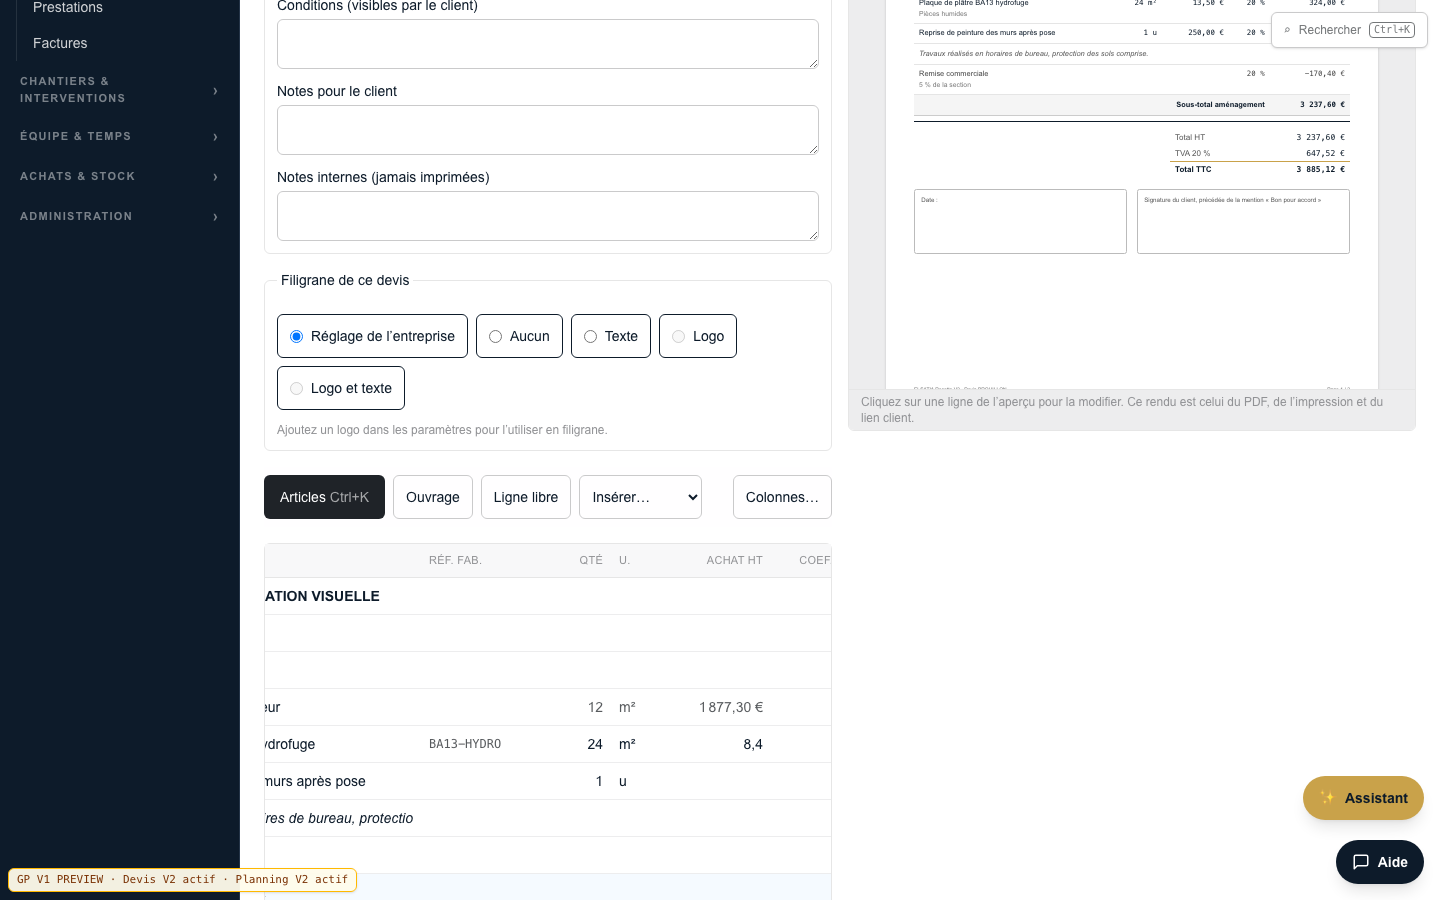
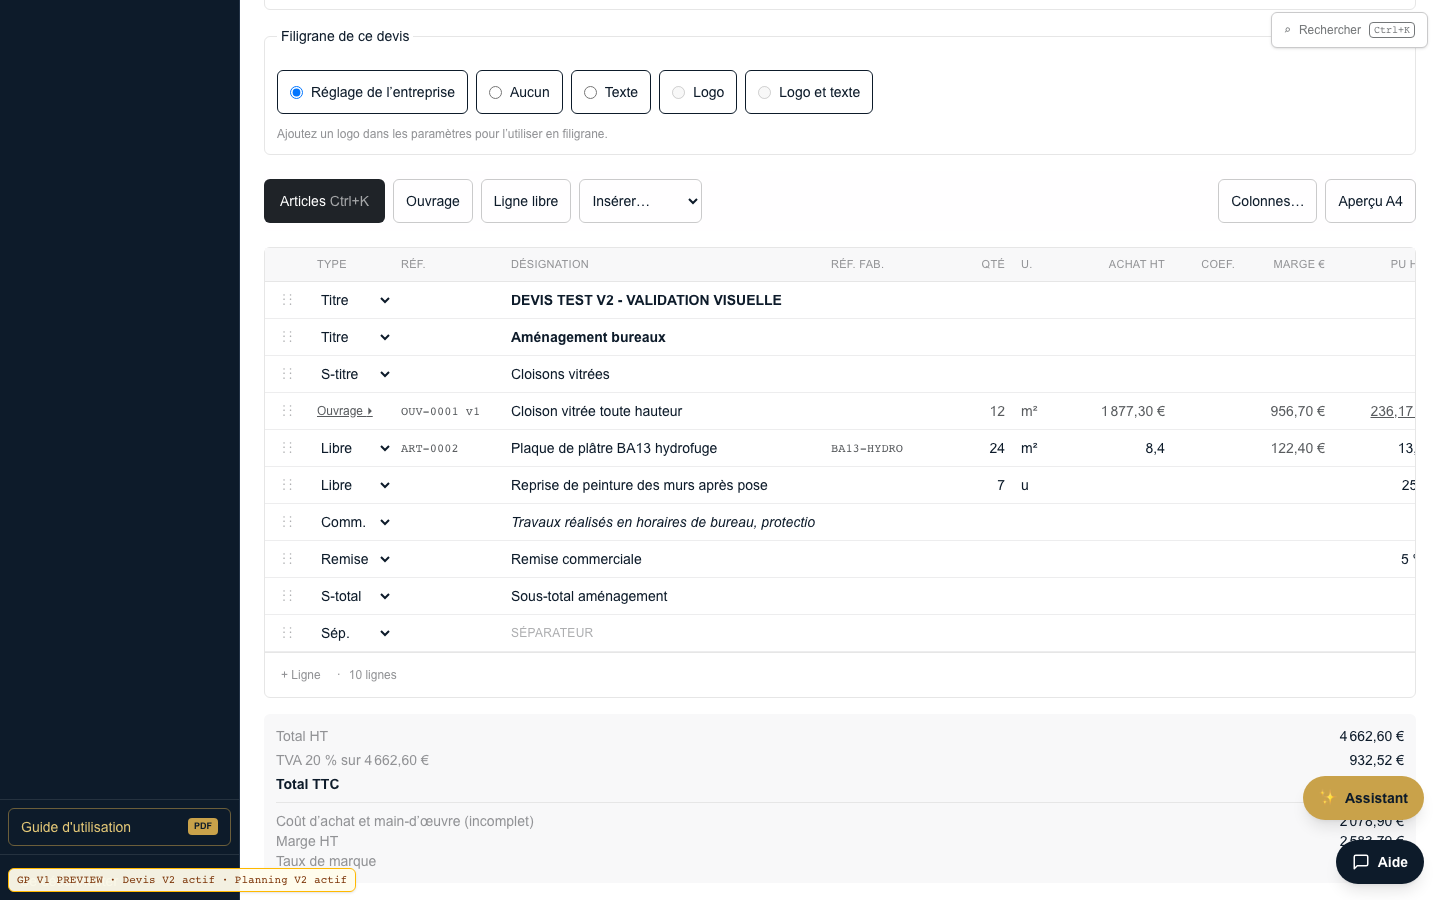
fix(migrations): 276 — gin_trgm_ops qualifié par le schéma réel de pg_trgm (rôle CLI sans extensions dans le search_path) ; runbook migrations Production ; rapport § 18
Preuve harnais : Fresh complet et cas Supabase simulé (pg_trgm dans extensions, 276 jouée par un rôle
de connexion sans extensions dans son search_path puis set role postgres). Rien n'est joué sur Production.

diff --git a/docs/gp-v1/preview/RUNBOOK_MIGRATIONS_PRODUCTION_GP_V1.md b/docs/gp-v1/preview/RUNBOOK_MIGRATIONS_PRODUCTION_GP_V1.md
@@ -1,0 +1,61 @@
+# Runbook — migrations GP V1 vers Production (préparation, non exécuté)
+
+Version 2026-09-13. Issu de la recette preview (`ELSATIA_GP_V1_PREVIEW_VALIDATION_REPORT.md`, § 6, 7, 17).
+**Rien de ce runbook n'a été joué sur Production.** Il décrit exactement ce qui a été fait sur la preview
+et ce qui doit l'être en Production, avec le rôle réellement utilisé.
+
+## 0. Rôle qui migre
+
+`supabase db push --linked` (CLI 2.109) se connecte **sans mot de passe** via l'API de gestion avec un
+rôle temporaire `cli_login_postgres`, membre de `postgres` (les objets créés appartiennent à `postgres`).
+Ce rôle **n'a pas `extensions` dans son `search_path`** (`"$user", public`), contrairement à `postgres`
+(`"$user", public, extensions`). Conséquence historique : la migration `20260908000276` échouait sur
+`gin_trgm_ops` (classe d'opérateurs de `pg_trgm`, installé dans `extensions` sur Supabase).
+
+**Corrigé dans le ledger** : la 276 résout désormais le schéma réel de `pg_trgm` (`pg_extension`) et
+qualifie `gin_trgm_ops` explicitement (bloc `do $$ … execute format(… %I.gin_trgm_ops) …`). Preuve :
+Fresh complet 1→290 sur Postgres nu, et cas Supabase simulé (pg_trgm dans `extensions`, 276 jouée par un
+rôle sans `extensions` dans son `search_path`). **Le rôle `postgres` n'est donc plus nécessaire** ; `db push`
+avec la CLI suffit. Si une autre migration échouait pour la même raison, la procédure de secours est :
+`supabase db query --linked -f <fichier>` (exécuté par `postgres`, une transaction) puis
+`supabase migration repair --linked --status applied <version>`.
+
+## 1. Avant de migrer
+
+1. `supabase link --project-ref exhvuzegsefmoguxoiak` (Production) — vérifier `supabase/.temp/project-ref`.
+2. `supabase migration list --linked` : relever le ledger réel (Production attendue au 210 ; la preview
+   était au 251 avec des trous : 200, 232, 236→240).
+3. Calculer les versions en attente (fichiers locaux ∖ ledger distant) : `db push --dry-run --include-all`.
+4. **Sauvegarde logique** : `db dump --linked -f schema.sql`, `--data-only --use-copy -f data.sql`,
+   `--role-only -f roles.sql` (aucune sauvegarde physique n'existe sur les projets sans PITR).
+5. **Répétition générale** : restaurer la sauvegarde dans un Postgres jetable
+   (`public.ecr.aws/supabase/postgres:17.6.1.143`, harnais `ELSATIA-STACKS/train-v3-dbtest`), y compris
+   `auth.users` (extraire le bloc COPY, insérer id/email), puis appliquer les versions en attente dans
+   l'ordre de `db push`. Script de référence : `replay-preview4.sh` (scratchpad de la session, à
+   recopier dans `ELSATIA-STACKS`).
+6. **Dérives à chercher** (constatées sur la preview, à vérifier sur Production) :
+   - `plateforme_admins.utilisateur_id` posé `NOT NULL` hors migration → la 266 échoue (NOT NULL vérifié
+     avant ON CONFLICT) ; correction : `alter column utilisateur_id drop not null` (le ledger le déclare
+     nullable) ;
+   - postes orphelins (entreprise absente) → la 282 échoue ; correction : suppression des orphelins sans
+     dépendance (utilisateurs, employés, permissions).
+   Toute correction manuelle doit être autorisée explicitement par Julien et consignée.
+
+## 2. Migrer
+
+1. `db push --linked --include-all --yes` (les 7 versions sous le maximum distant exigent `--include-all`).
+2. Si arrêt : la migration en cours est annulée (transaction), les précédentes restent appliquées ;
+   corriger la cause, relancer (`db push` reprend aux versions manquantes).
+3. Contrôles : `select count(*), max(version) from supabase_migrations.schema_migrations` = nombre de
+   fichiers locaux ; surface de sécurité avant/après (privilèges DDL des rôles applicatifs = 0, SECURITY
+   DEFINER exécutables par `anon` = la liste blanche du test `isolation_multitenant_surface`, sans
+   `search_path` = 0) ; volumes (`devis`, `factures`, `lignes_devis`, `auth.users`) inchangés.
+
+## 3. Après
+
+- Drapeaux `GP_DEVIS_V2=1`, `GP_PLANNING_V2=1` sur l'environnement Production de Vercel au moment du
+  déploiement applicatif (et pas avant : sans schéma v2 l'éditeur v2 n'a pas ses tables).
+- `NEXT_PUBLIC_GP_PREVIEW_BADGE` **ne doit jamais** être posé en Production ; le code le refuse de toute
+  façon (`badge-preview.ts` : `VERCEL_ENV=production` ou adresse `app.elsatia.fr`).
+- PDF : le lanceur Chromium pose l'indice AL2023 si Vercel n'expose pas `VERCEL=1` (`generer.ts`).
+- Backlog plateforme (hors GP V1) : coût ligne à ligne des politiques RLS (`est_membre_actif`, ≈ 1,8 ms/ligne).

diff --git a/docs/gp-v1/ELSATIA_GP_V1_PREVIEW_VALIDATION_REPORT.md b/docs/gp-v1/ELSATIA_GP_V1_PREVIEW_VALIDATION_REPORT.md
@@ -363,3 +363,29 @@ Julien confirme que « Télécharger PDF » fonctionne en Production et demande 
   historique (drapeau éteint) est inchangé.
 - **Planning** (`2e67d69`) : bouton de vue actif lisible au survol (« Compacte » paraissait grisé).
 - Gate rejoué sur ces commits : lint 0 erreur, typecheck 0 erreur, tests ciblés verts, build Vercel Ready.
+
+## 18. Décisions de Julien et préparation Production (2026-09-13, 10:35 → 11:30)
+
+Décisions : (1) grille pleine largeur par défaut, aperçu A4 à la demande ; (2) copier/coller de lignes
+entre devis : oui, après la validation visuelle finale ; (3) badge preview absent automatiquement de tout
+environnement promu ; (4) migration 276 à qualifier avec le rôle réellement utilisé ; (5) coût RLS →
+backlog plateforme. Traités ici : 1, 3, 4.
+
+- **(1) Éditeur** (`c139ee2`) : `apercuVisible` à `false` par défaut sur grand écran ; bouton « Aperçu A4 »
+  ouvre l'aperçu réel à côté de la grille, « Masquer l'aperçu » le referme. Mobile inchangé (onglets).
+- **(3) Badge** (`c139ee2`) : module pur `badge-preview.ts` (7 tests) — visible seulement si
+  `NEXT_PUBLIC_GP_PREVIEW_BADGE=1` **et** `VERCEL_ENV ≠ production` **et** `NEXT_PUBLIC_APP_URL` ≠
+  `app.elsatia.fr`. Le projet Vercel `elsatia-production` ne porte ni cette variable ni les drapeaux GP.
+- **(4) Migration 276** : `gin_trgm_ops` qualifié par le schéma réel de `pg_trgm` (lu dans `pg_extension`,
+  bloc `do … execute format`), sans dépendre du `search_path` du rôle qui migre. Preuves en harnais :
+  **A.** Fresh complet 1→290 sur Postgres nu (287 appliquées, 3 index, extension en `extensions`) ;
+  **B.** cas Supabase (pg_trgm dans `extensions`), la 276 jouée par un rôle de connexion sans `extensions`
+  dans son `search_path` puis `set role postgres`, comme la CLI — voir résultat ci-dessous.
+  Runbook : `docs/gp-v1/preview/RUNBOOK_MIGRATIONS_PRODUCTION_GP_V1.md` (rôle utilisé, sauvegarde,
+  répétition générale, dérives à chercher, contrôles). Rien n'a été joué sur Production.
+  Résultat **B** : 273 migrations avant, **276 OK** jouée par `cli_login_test` (`search_path` = `"$user", public`,
+  puis `set role postgres` comme la CLI), 14 migrations après, les 3 index sur `extensions.gin_trgm_ops`.
+  Résultat **A** (Fresh 1→290 avec la 276 qualifiée) : voir le journal `preuve-276a.log` du scratchpad, reporté
+  dans le message de livraison. La 247 (Colors) écrit déjà `extensions.gin_trgm_ops` en dur : elle passe avec
+  ce rôle (preuve B l'a traversée). Preview : vérifié après build — badge présent sur la preview, grille
+  1 150 px par défaut sans aperçu, bouton « Aperçu A4 » ouvre l'aperçu (captures 30, 30c).
